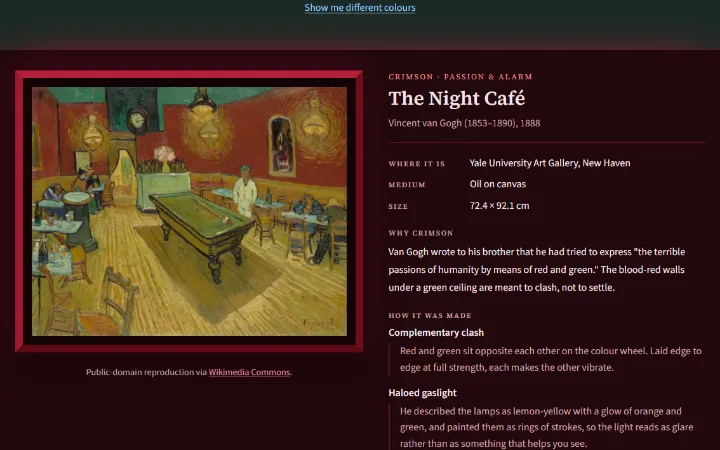
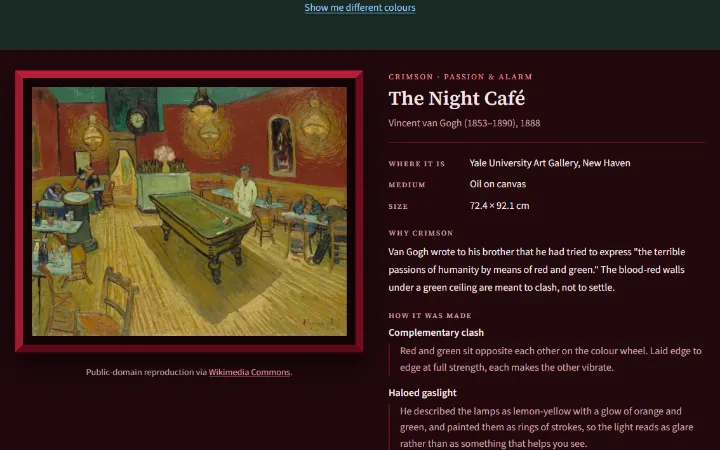
feat: gallery

Changed region(s): [[0.0306, 0.0622, 0.9778, 0.1244]]

diff --git a/src/app/gallery/gallery.css b/src/app/gallery/gallery.css
@@ -78,7 +78,11 @@
 /* The sphere is a radial gradient lit from the upper left, and the glow is a
    separate layer behind it. The glow used to breathe; it is still now,
    because a loop that tells the visitor nothing is decoration, and the site
-   no longer keeps any. */
+   no longer keeps any.
+
+   The glow itself stays, and it is the one coloured halo `check:docs` lets
+   through on this page: the orb's colour is the choice being offered, so the
+   light around it is content, not chrome around a control. */
 .orb-sphere {
   position: relative;
   width: 5.5rem;
@@ -175,12 +179,12 @@
   border: 1px solid var(--room-border, var(--color-border));
   border-radius: 4px;
   padding: 2rem;
-  box-shadow: 0 0 80px -30px var(--room-accent, transparent);
+  /* No halo: the tint already carries the colour, and a glow on the panel is
+     chrome. `check:docs` fails on a coloured zero-offset box-shadow. */
   transition:
     background-color 0.5s ease,
     color 0.5s ease,
-    border-color 0.5s ease,
-    box-shadow 0.5s ease;
+    border-color 0.5s ease;
 }
 
 /* On a desktop the painting stays in view while the text beside it scrolls:
@@ -239,8 +243,7 @@
   border-right-color: #6f0d1d;
   box-shadow:
     0 0 0 2px #2a050b,
-    0 20px 44px rgba(0, 0, 0, 0.65),
-    0 0 52px rgba(208, 35, 60, 0.3);
+    0 20px 44px rgba(0, 0, 0, 0.65);
 }
 
 /* Gold: a gilt moulding with a gold fillet against the picture. The gradient
@@ -260,8 +263,7 @@
     1;
   box-shadow:
     0 0 0 1px #3d2c0c,
-    0 22px 48px rgba(0, 0, 0, 0.6),
-    0 0 64px rgba(217, 165, 58, 0.24);
+    0 22px 48px rgba(0, 0, 0, 0.6);
 }
 
 [data-frame='gilt'] .hung-image {
@@ -276,8 +278,7 @@
   box-shadow:
     0 0 0 5px var(--room-surface, #0a1222),
     0 0 0 6px #3f5479,
-    0 24px 50px rgba(0, 0, 0, 0.6),
-    0 0 72px rgba(74, 120, 224, 0.26);
+    0 24px 50px rgba(0, 0, 0, 0.6);
 }
 
 /* Green: a plain oak frame and a cream mat, the way a landscape hangs in a
@@ -302,8 +303,8 @@
   outline: 1px solid rgba(70, 55, 30, 0.45);
 }
 
-/* Rose: a wide blush mat with softened corners and a halo, the only frame
-   here that is gentle rather than heavy. */
+/* Rose: a wide blush mat with softened corners, the only frame here that is
+   gentle rather than heavy. */
 [data-frame='blush'] .hung-mount {
   padding: clamp(14px, 3vw, 28px);
   border: 3px solid #d79ab3;
@@ -311,8 +312,7 @@
   box-shadow:
     0 0 0 6px var(--room-surface, #26131c),
     0 0 0 7px #a86080,
-    0 18px 40px rgba(0, 0, 0, 0.5),
-    0 0 64px rgba(229, 132, 166, 0.26);
+    0 18px 40px rgba(0, 0, 0, 0.5);
 }
 
 /* Umber: heavy ebonised wood with almost no mat, so the painting sits deep

diff --git a/CLAUDE.md b/CLAUDE.md
@@ -33,7 +33,7 @@ product; it is a hiring artifact. That distinction decides most arguments:
 
 | File                | Size | Read it when                                                                                                                                                                                                                                                                                                                                                                                                                                                                                                                                                                                                                                                                                                                                                                                                                                                                                                                                                                                                                                                                                                       |
 | ------------------- | ---- | ------------------------------------------------------------------------------------------------------------------------------------------------------------------------------------------------------------------------------------------------------------------------------------------------------------------------------------------------------------------------------------------------------------------------------------------------------------------------------------------------------------------------------------------------------------------------------------------------------------------------------------------------------------------------------------------------------------------------------------------------------------------------------------------------------------------------------------------------------------------------------------------------------------------------------------------------------------------------------------------------------------------------------------------------------------------------------------------------------------------ |
-| `ROADMAP.md`        | 6K   | **Any question of "what should I build".** Numbered items with Definitions of Done (today: three, a second visual pass), plus a "Deliberately not doing" list. Start here.                                                                                                                                                                                                                                                                                                                                                                                                                                                                                                                                                                                                                                                                                                                                                                                                                                                                                                                                          |
+| `ROADMAP.md`        | 4K   | **Any question of "what should I build".** Numbered items with Definitions of Done (today: one, the end of a second visual pass), plus a "Deliberately not doing" list. Start here.                                                                                                                                                                                                                                                                                                                                                                                                                                                                                                                                                                                                                                                                                                                                                                                                                                                                                                                                |
 | `README.md`         | 9K   | Almost never — it is a one-page shop window that links here and to `ARCHITECTURE.md`.                                                                                                                                                                                                                                                                                                                                                                                                                                                                                                                                                                                                                                                                                                                                                                                                                                                                                                                                                                                                                              |
 | `ARCHITECTURE.md`   | 25K  | The reference doc: API shapes, the error contract, transports and badges, deployment, env vars, a11y.                                                                                                                                                                                                                                                                                                                                                                                                                                                                                                                                                                                                                                                                                                                                                                                                                                                                                                                                                                                                              |
 | `backend/README.md` | 15K  | You are working inside `backend/` — DB schema, seeding, streaming design, Alembic.                                                                                                                                                                                                                                                                                                                                                                                                                                                                                                                                                                                                                                                                                                                                                                                                                                                                                                                                                                                                                                 |
@@ -223,7 +223,12 @@ mistake for bugs:
   `/aesthetic` whose provenance and contrasts are written above the tokens in `styles.css`. A focus
   ring is an outline. `check:docs` fails on any `text-shadow` in `src/app/` or `styles.css`, on the
   old red by value or by name, and on `/aesthetic`'s `@property --glow` drifting from
-  `--color-border`. State colours are not the accent: an error is `--color-negative`, never blue.
+  `--color-border`. It also fails on a `box-shadow` glow: a layer at zero offset, with a blur, that
+  isn't black. Offset drop shadows are depth and zero-blur rings are edges, so both pass. The
+  exemptions are `GLOW_EXEMPTIONS`, and each one carries its reason. There are three: `/gallery`'s
+  orbs (their colour is the choice on offer, so the light is content), the pressed orb, and
+  `/aesthetic`'s `.triad-card` (its glow appears only once a colour is chosen, so it shows state).
+  An exemption that stops matching anything fails too. State colours are not the accent: an error is `--color-negative`, never blue.
   The charts read the tokens at runtime, so keep the tokens six-digit hex.
 - **Both rules above are about the interface, and `/murmuration`'s canvas is spectacle.** The
   test is the reason a piece of code exists. Buttons, links, labels and cards are there to send a

diff --git a/ROADMAP.md b/ROADMAP.md
@@ -37,25 +37,7 @@ or see a tutorial?_ Prefer finishing one thing convincingly over starting three.
 
 ## Items
 
-### 1. Remove the glow around the Gallery's panel
-
-**Effort:** small. **Why:** `CLAUDE.md` says no glow, and the check behind it only reads
-`text-shadow`, so a `box-shadow` halo gets through. Two things on `/gallery` use one, and they are not
-the same case. The orbs' colour is the choice being offered, so it is content and stays. The halo
-around the hung painting's panel (`0 0 80px` of `--room-accent`) is interface chrome: the panel's
-tint already carries the colour.
-
-**DoD:**
-
-- The panel's coloured halo and its `box-shadow` transition are gone. Its tint stays, as do the
-  painting's dark drop shadows, which are depth rather than glow.
-- The orbs stay as they are, with a comment saying why they are content.
-- `check:docs` fails on a coloured zero-offset `box-shadow` in `src/app/` and `styles.css`, with the
-  orbs and `/aesthetic` named as exemptions and the reason beside each. `/aesthetic`'s glow shows
-  state, so it is not part of this item.
-- `CLAUDE.md`'s no-glow rule states the new check and its exemptions, and frames are re-captured.
-
-### 2. Tighten the Wanderquest layout
+### 1. Tighten the Wanderquest layout
 
 **Effort:** small. **Why:** the legend explains the map but sits below all six bonus tiles, a long
 way from it. The tiles stack two across and three down, which pushes the checklist further away, when
